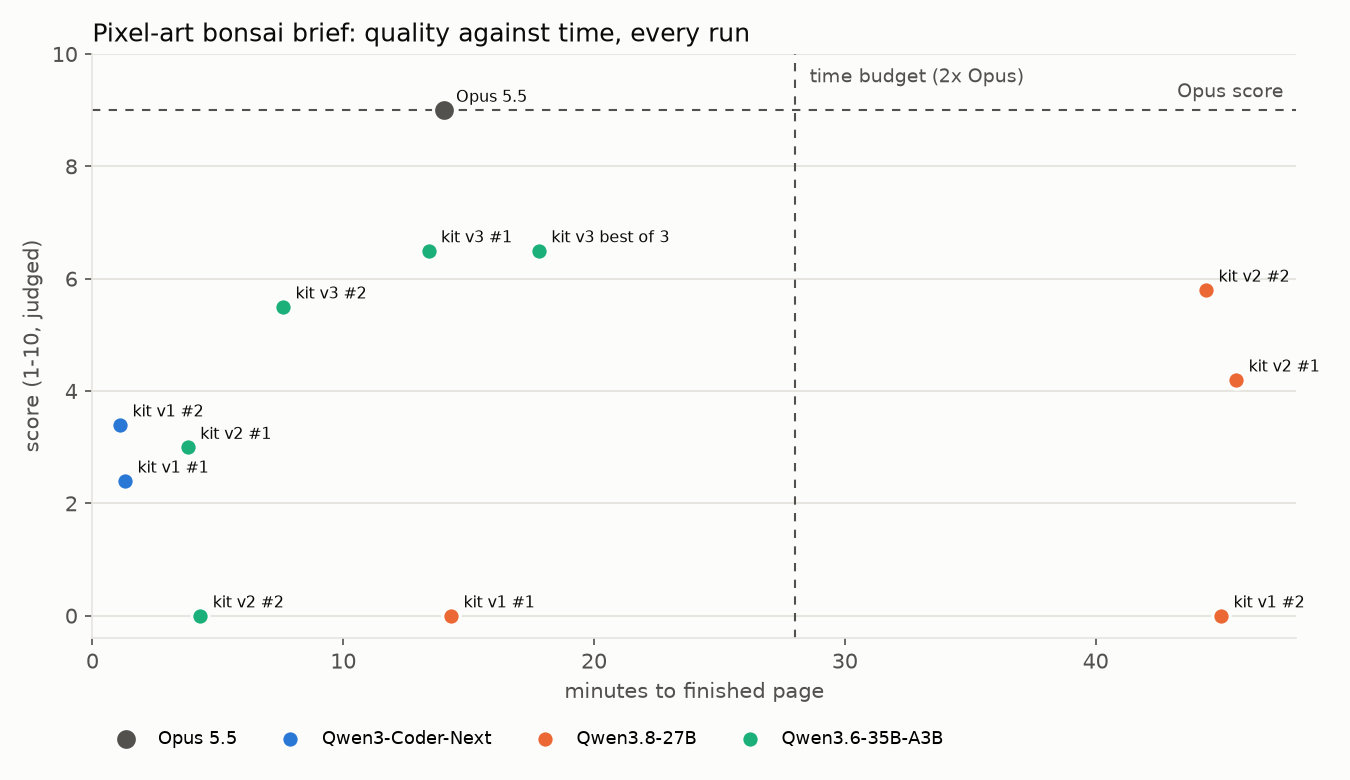
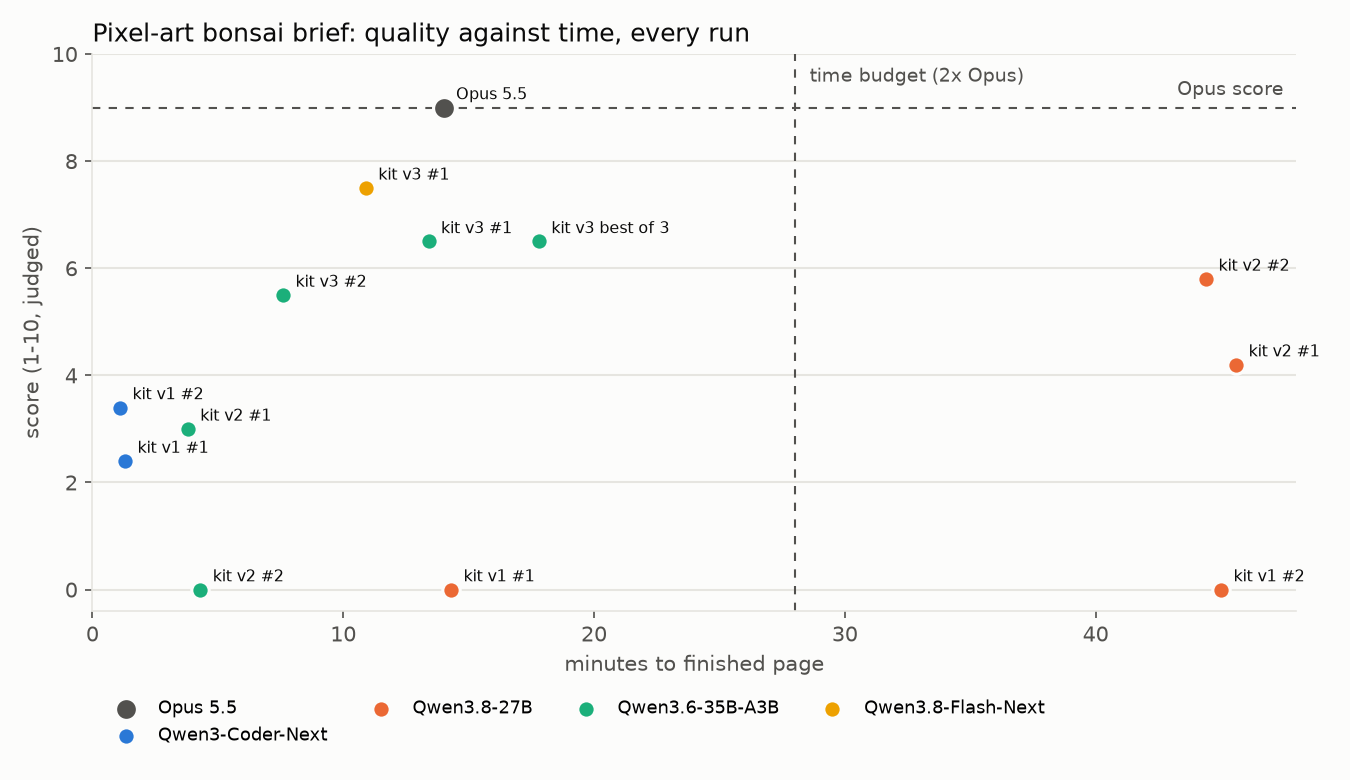
Add the first Qwen3.8-Flash-Next result: bonsai 7.5 in 10.9 min

diff --git a/results/apps/bonsai/qwen3-8-flash-next-kit-v3-1/index.html b/results/apps/bonsai/qwen3-8-flash-next-kit-v3-1/index.html
@@ -1,0 +1,335 @@
+<!doctype html>
+<html lang="en">
+<head>
+<meta charset="utf-8">
+<meta name="viewport" content="width=device-width, initial-scale=1">
+<title>Bonsai in the Wind</title>
+<style>
+  html, body { margin: 0; height: 100%; background: #0d1524; }
+  body { display: flex; align-items: center; justify-content: center; overflow: hidden; }
+  canvas { image-rendering: pixelated; image-rendering: crisp-edges; }
+</style>
+</head>
+<body>
+<canvas id="c"></canvas>
+<script>
+"use strict";
+const W = 160, H = 120, GROUND = 104;
+
+function mulberry32(a){return()=>{a|=0;a=a+0x6D2B79F5|0;let t=Math.imul(a^a>>>15,1|a);t=t+Math.imul(t^t>>>7,61|t)^t;return((t^t>>>14)>>>0)/4294967296}}
+const rand = mulberry32(1337);
+const clamp = v => v < 0 ? 0 : v > 255 ? 255 : Math.round(v);
+function hex2rgb(h){ return [parseInt(h.slice(1,3),16), parseInt(h.slice(3,5),16), parseInt(h.slice(5,7),16)]; }
+function mix(c1, c2, t){ const a = hex2rgb(c1), b = hex2rgb(c2); return `rgb(${clamp(a[0]+(b[0]-a[0])*t)},${clamp(a[1]+(b[1]-a[1])*t)},${clamp(a[2]+(b[2]-a[2])*t)})`; }
+
+const canvas = document.getElementById("c");
+const ctx = canvas.getContext("2d");
+canvas.width = W; canvas.height = H;
+ctx.imageSmoothingEnabled = false;
+
+function fit(){
+  const availW = Math.min(window.innerWidth, 900), availH = Math.min(window.innerHeight, 760);
+  let s = Math.min(availW / W, availH / H);
+  if(s >= 3) s = Math.floor(s);
+  canvas.style.width = (W * s) + "px";
+  canvas.style.height = (H * s) + "px";
+}
+window.addEventListener("resize", fit);
+fit();
+
+const px = (x, y, c) => { ctx.fillStyle = c; ctx.fillRect(Math.round(x), Math.round(y), 1, 1); };
+const fillRow = (x, y, w, h, c) => { ctx.fillStyle = c; ctx.fillRect(Math.round(x), Math.round(y), Math.round(w), Math.round(h)); };
+function disc(cx, cy, r, c){ for(let y=-r;y<=r;y++) for(let x=-r;x<=r;x++) if(x*x+y*y <= r*r+r*0.8) px(cx+x, cy+y, c); }
+function ellipse(cx, cy, rx, ry, c){ for(let y=-ry;y<=ry;y++) for(let x=-rx;x<=rx;x++) if((x*x)/(rx*rx)+(y*y)/(ry*ry) <= 1.0) px(cx+x, cy+y, c); }
+function taper(x0,y0,cx,cy,x1,y1,w0,w1,c){
+  const steps = Math.ceil(Math.hypot(x1-x0, y1-y0)) * 2;
+  for(let i=0;i<=steps;i++){
+    const t=i/steps, u=1-t;
+    const x=u*u*x0+2*u*t*cx+t*t*x1, y=u*u*y0+2*u*t*cy+t*t*y1;
+    disc(x, y, Math.max(0, Math.round((w0+(w1-w0)*t)/2)), c);
+  }
+}
+
+// ---- palettes (dark -> light) ----
+const SKY = ["#1d3050","#2b4a72","#3f6a97","#5f8eb8","#8ab6d6"];
+const CLOUD = ["#b7cfe4","#d8e7f2"];
+const HILL = ["#3d5a74","#4e718c","#6a8fa6"];
+const FOLIAGE = ["#1d3b2a","#2f5d34","#4a8a3c","#78b84a","#b8e070"];
+const LEAF = ["#2f5d34","#4a8a3c","#78b84a","#b8e070"];
+const BARK = ["#2b1a14","#4a2c1f","#6e4430","#9a6646","#c79a6b"];
+const POT = ["#3a1e16","#5c2d20","#8a3a26","#b4532f","#d97e4a"];
+const SOIL = ["#241812","#3a281e"];
+const GND = ["#2c4630","#3b5c3e","#527a4a"];
+const STONE = ["#3d3d52","#5e6178","#8b90a6"];
+const STREAK = "#cfe3f0";
+
+// ---- sky ----
+const skyRow = [];
+for(let y=0;y<GROUND;y++){
+  const t = y/(GROUND-1);
+  skyRow.push(mix(SKY[0], SKY[4], t));
+}
+
+// ---- clouds ----
+const clouds = [];
+for(let i=0;i<5;i++){
+  const puffs = [];
+  const n = 3 + Math.floor(rand()*3);
+  for(let j=0;j<n;j++) puffs.push({dx: j*5 - n*2 + Math.floor(rand()*4), dy: Math.floor(rand()*4)-2, r: 3+Math.floor(rand()*4)});
+  clouds.push({x: rand()*W, y: 8 + rand()*30, sp: 0.7 + rand()*0.9, puffs});
+}
+
+// ---- hills ----
+const farPts = (()=>{const r=mulberry32(7);const p=[];for(let i=0;i<=W/8;i++)p.push(78 - Math.floor(r()*10));return p;})();
+const nearPts = (()=>{const r=mulberry32(21);const p=[];for(let i=0;i<=W/8;i++)p.push(90 - Math.floor(r()*8));return p;})();
+
+// ---- ground ----
+const grass = [];
+{
+  const r = mulberry32(99);
+  for(let i=0;i<260;i++) grass.push({x: Math.floor(r()*W), y: GROUND + Math.floor(r()*(H-GROUND)), c: r()});
+}
+
+// ---- bonsai geometry ----
+const BASE_X = 80, BASE_Y = 96;
+const TRUNK = {x0: BASE_X, y0: BASE_Y, cx: 65, cy: 82, x1: 77, y1: 51};
+
+function bez(t){
+  const u = 1-t;
+  return {x: u*u*TRUNK.x0 + 2*u*t*TRUNK.cx + t*t*TRUNK.x1,
+          y: u*u*TRUNK.y0 + 2*u*t*TRUNK.cy + t*t*TRUNK.y1};
+}
+
+const branches = [
+  {p0: 0.22, cx: 59, cy: 85, x1: 45, y1: 79, w0: 4.5, w1: 2},
+  {p0: 0.50, cx: 88, cy: 73, x1: 99, y1: 70, w0: 4,   w1: 1.5},
+  {p0: 0.72, cx: 63, cy: 62, x1: 54, y1: 58, w0: 3,   w1: 1.2},
+];
+
+const pads = [
+  {x: 43, y: 75, rx: 13, ry: 6,  hFac: 0.35, ph: 0.0},
+  {x: 101, y: 68, rx: 11, ry: 5,  hFac: 0.55, ph: 1.7},
+  {x: 52, y: 55, rx: 9,  ry: 4,  hFac: 0.72, ph: 3.1},
+  {x: 79, y: 44, rx: 15, ry: 6,  hFac: 1.0,  ph: 4.4},
+];
+pads.forEach(p => {
+  const r = mulberry32(Math.round(p.x*131 + p.y*17));
+  p.blobs = [];
+  const n = 7 + Math.floor(r()*4);
+  for(let i=0;i<n;i++){
+    p.blobs.push({
+      dx: Math.round((r()*2-1) * p.rx * 0.8),
+      dy: Math.round((r()*2-1) * p.ry * 0.6) - 1,
+      r: 3 + Math.floor(r()*3)
+    });
+  }
+  p.specks = [];
+  const m = 6 + Math.floor(r()*5);
+  for(let i=0;i<m;i++) p.specks.push({dx: Math.round((r()*2-1)*p.rx*0.9), dy: Math.round((r()*2-1)*p.ry*0.7), c: r()});
+});
+
+// ---- drifting particles ----
+const leaves = [], streaks = [];
+for(let i=0;i<30;i++) leaves.push({
+  x: rand()*W, y: rand()*GROUND, sp: 6 + rand()*16, amp: 3 + rand()*7,
+  ph: rand()*6.28, size: 1 + Math.floor(rand()*2), c: LEAF[Math.floor(rand()*LEAF.length)]
+});
+for(let i=0;i<12;i++) streaks.push({
+  x: rand()*W, y: 12 + rand()*(GROUND-24), sp: 24 + rand()*34,
+  len: 8 + Math.floor(rand()*10), al: 0.22 + rand()*0.14
+});
+
+// ---- drawing ----
+let sway = 0;
+
+function drawSky(){
+  for(let y=0;y<GROUND;y++){ ctx.fillStyle = skyRow[y]; ctx.fillRect(0, y, W, 1); }
+}
+
+function drawClouds(t){
+  for(const c of clouds){
+    let x = (c.x + t*c.sp) % (W+40) - 20;
+    for(const p of c.puffs){
+      ellipse(x+p.dx, c.y+p.dy, p.r+1, Math.max(1, p.r-2), CLOUD[0]);
+      ellipse(x+p.dx, c.y+p.dy-1, p.r-1, Math.max(1, p.r-3), CLOUD[1]);
+    }
+  }
+}
+
+function hillBand(pts, colTop, colFace, base){
+  for(let x=0;x<W;x++){
+    const i = Math.floor(x/8), f = (x%8)/8;
+    const y = Math.round(pts[i]*(1-f) + pts[Math.min(i+1, pts.length-1)]*f);
+    fillRow(x, y, 1, base-y, colFace);
+    px(x, y, colTop);
+  }
+}
+
+function drawHills(){
+  hillBand(farPts, HILL[2], HILL[1], GROUND);
+  hillBand(nearPts, HILL[1], HILL[0], GROUND);
+}
+
+function drawGround(){
+  fillRow(0, GROUND, W, H-GROUND, GND[1]);
+  fillRow(0, GROUND, W, 1, GND[2]);
+  fillRow(0, H-3, W, 3, GND[0]);
+  for(const g of grass) px(g.x, g.y, g.c < 0.5 ? GND[0] : (g.c < 0.85 ? GND[2] : "#6f9657"));
+  disc(24, 110, 3, STONE[1]); disc(24, 109, 2, STONE[2]); px(23, 108, STONE[2]);
+  disc(136, 112, 2, STONE[1]); px(135, 111, STONE[2]);
+  const r = mulberry32(5);
+  for(let i=0;i<40;i++) px(Math.floor(r()*W), GROUND + 1 + Math.floor(r()*(H-GROUND-2)), GND[0]);
+}
+
+function drawPot(){
+  // shallow ceramic body with feet
+  ellipse(BASE_X, BASE_Y+7, 16, 3, POT[2]);
+  fillRow(BASE_X-15, BASE_Y+6, 30, 6, POT[2]);
+  for(let y=BASE_Y+7;y<BASE_Y+12;y++) for(let x=BASE_X+3;x<BASE_X+15;x++)
+    if(!((x+y)&1)) px(x, y, POT[1]);
+  for(let x=BASE_X-15;x<BASE_X-9;x++) px(x, BASE_Y+9, POT[1]);
+  fillRow(BASE_X-15, BASE_Y+11, 30, 1, POT[1]);
+  fillRow(BASE_X-13, BASE_Y+12, 5, 2, POT[1]);
+  px(BASE_X-13, BASE_Y+12, POT[2]);
+  fillRow(BASE_X+8, BASE_Y+12, 5, 2, POT[1]);
+  px(BASE_X+8, BASE_Y+12, POT[2]);
+  // protruding rim
+  fillRow(BASE_X-18, BASE_Y+2, 36, 4, POT[2]);
+  fillRow(BASE_X-18, BASE_Y+2, 36, 1, POT[4]);
+  fillRow(BASE_X-17, BASE_Y+3, 20, 1, POT[3]);
+  fillRow(BASE_X-18, BASE_Y+5, 36, 1, POT[1]);
+  px(BASE_X-18, BASE_Y+2, POT[4]); px(BASE_X+17, BASE_Y+2, POT[4]);
+  // soil
+  ellipse(BASE_X, BASE_Y+2, 15, 2, SOIL[1]);
+  for(let i=0;i<12;i++) px(BASE_X-14+Math.floor(rand()*28), BASE_Y+1+Math.floor(rand()*2), SOIL[0]);
+  const rx = mulberry32(3);
+  for(let i=0;i<16;i++){
+    const x = BASE_X-14 + Math.floor(rx()*28), y = BASE_Y+7 + Math.floor(rx()*5);
+    if(rx() < 0.5) px(x, y, POT[3]);
+  }
+  ellipse(BASE_X, BASE_Y+14, 14, 1, "#1f3325");
+}
+
+function drawTrunk(){
+  const WB = 9, WT = 3;
+  taper(TRUNK.x0, TRUNK.y0, TRUNK.cx, TRUNK.cy, TRUNK.x1, TRUNK.y1, WB, WT, BARK[1]);
+  for(const b of branches){
+    const p = bez(b.p0);
+    taper(p.x, p.y, b.cx, b.cy, b.x1, b.y1, b.w0, b.w1, BARK[1]);
+  }
+  taper(BASE_X-3, BASE_Y+1, BASE_X-8, BASE_Y+3, BASE_X-12, BASE_Y+5, 4, 1, BARK[1]);
+  taper(BASE_X+3, BASE_Y+1, BASE_X+8, BASE_Y+3, BASE_X+12, BASE_Y+5, 4, 1, BARK[1]);
+  taper(BASE_X, BASE_Y-3, BASE_X-5, BASE_Y-1, BASE_X-8, BASE_Y+2, 6, 1, BARK[1]);
+  taper(BASE_X, BASE_Y-3, BASE_X+6, BASE_Y-1, BASE_X+9, BASE_Y+2, 5, 1, BARK[1]);
+
+  // light side (left/top) and dark side (right)
+  const steps = 80;
+  for(let i=0;i<=steps;i++){
+    const t=i/steps, p=bez(t), w=Math.max(0, Math.round((WB+(WT-WB)*t)/2));
+    for(let k=-w;k<=w;k++) px(p.x+k-1, p.y, BARK[2]);
+    for(let k=w-1;k<=w;k++) px(p.x+k, p.y, BARK[0]);
+    px(p.x-w, p.y, BARK[1]);
+    if(i%6===0) px(p.x-Math.round(w*0.5), p.y, BARK[3]);
+    if(i%10===0) px(p.x+1, p.y+1, BARK[0]);
+  }
+  for(const b of branches){
+    const p = bez(b.p0), steps2 = 24;
+    for(let i=0;i<=steps2;i++){
+      const t=i/steps2, u=1-t;
+      const x=u*u*p.x+2*u*t*b.cx+t*t*b.x1, y=u*u*p.y+2*u*t*b.cy+t*t*b.y1;
+      const w=Math.max(0, Math.round((b.w0+(b.w1-b.w0)*t)/2));
+      if(t<0.5) px(x, y-w, BARK[3]);
+      px(x, y+w, BARK[0]);
+    }
+  }
+}
+
+function drawPad(p){
+  const ox = Math.round(Math.sin(sway*1.3 + p.ph) * 2.2 * p.hFac);
+  const oy = Math.round(Math.sin(sway*0.9 + p.ph*1.3) * 0.8 * p.hFac);
+  const cx = p.x + ox, cy = p.y + oy;
+
+  for(const b of p.blobs) disc(cx+b.dx, cy+b.dy, b.r+1, FOLIAGE[0]);
+  for(const b of p.blobs) disc(cx+b.dx-1, cy+b.dy-1, b.r, FOLIAGE[1]);
+  for(const b of p.blobs) disc(cx+b.dx-2, cy+b.dy-2, b.r-1, FOLIAGE[2]);
+  for(const b of p.blobs) disc(cx+b.dx-3, cy+b.dy-3, Math.max(0,b.r-2), FOLIAGE[3]);
+
+  // interior depth: dark speckles clustered in the lower-right body
+  for(const s of p.specks){
+    px(cx+s.dx, cy+s.dy, s.c > 0.6 ? FOLIAGE[3] : FOLIAGE[1]);
+  }
+  const r = mulberry32(Math.round(p.x*71 + p.y*29));
+  for(let i=0;i<10;i++){
+    const dx = Math.round(r()*p.rx*0.9) - 1;
+    const dy = Math.round(r()*p.ry*0.7) + 1;
+    if(r() < 0.7) px(cx+dx, cy+dy, FOLIAGE[0]);
+  }
+  // lit crown rim along the top edge, speckled for a leafy edge
+  for(let x=-p.rx;x<=p.rx;x++){
+    const d = 1 - (x*x)/(p.rx*p.rx);
+    if(d <= 0.25) continue;
+    const yt = cy - Math.round(p.ry*Math.sqrt(d)) - 1;
+    if(r() < 0.55) px(cx+x, yt, x < 0 ? FOLIAGE[4] : FOLIAGE[3]);
+  }
+}
+
+function drawStreaks(){
+  for(const s of streaks){
+    const len = s.len + (sway > 0 ? Math.round(sway*3) : 0);
+    ctx.globalAlpha = Math.min(0.6, s.al + Math.max(0, sway)*0.12);
+    fillRow(s.x, s.y, len, 1, "#cfe3f0");
+    fillRow(s.x, s.y+1, Math.max(2, Math.round(len*0.5)), 1, "#9cbdd6");
+    if(len > 8) fillRow(s.x+2, s.y-1, Math.round(len*0.6), 1, "#eaf4fb");
+    ctx.globalAlpha = 1;
+  }
+}
+
+function drawLeaves(t){
+  for(const l of leaves){
+    const x = Math.round(l.x), y = Math.round(l.y + Math.sin(t*3 + l.ph) * l.amp);
+    const wob = Math.round(Math.sin(t*6 + l.ph)*1.5);
+    px(x, y, l.c);
+    if(l.size > 1) px(x+1, y+wob>0?y:y-1, mix(l.c, "#ffffff", 0.25));
+    if(l.size > 1) px(x-1, y+1, mix(l.c, "#000000", 0.25));
+  }
+}
+
+function update(dt, t){
+  const gust = 0.55 + 0.45*Math.sin(t*0.35) * Math.sin(t*0.13 + 2);
+  sway = Math.sin(t*1.1) + gust*0.6*Math.sin(t*2.3);
+  const wind = 12 + 10*gust;
+  for(const l of leaves){
+    l.x += (l.sp + wind) * dt;
+    if(l.x > W + 2){ l.x = -2 - rand()*6; l.y = rand()*GROUND; l.sp = 6 + rand()*16; }
+  }
+  for(const s of streaks){
+    s.x += (s.sp + wind*1.6) * dt;
+    if(s.x > W + 12){ s.x = -s.len - 4 - rand()*10; s.y = 12 + rand()*(GROUND-24); }
+  }
+}
+
+const reduce = window.matchMedia && window.matchMedia("(prefers-reduced-motion: reduce)").matches;
+
+let last = performance.now();
+function frame(now){
+  const dt = reduce ? 0 : Math.min(0.05, (now - last) / 1000);
+  last = now;
+  const t = now / 1000;
+  update(dt, t);
+
+  drawSky();
+  drawClouds(t);
+  drawHills();
+  drawGround();
+  drawPot();
+  drawTrunk();
+  for(const p of pads) drawPad(p);
+  drawStreaks();
+  drawLeaves(t);
+
+  requestAnimationFrame(frame);
+}
+requestAnimationFrame(frame);
+</script>
+</body>
+</html>

diff --git a/README.md b/README.md
@@ -3,10 +3,11 @@
 Can a local model on one NVIDIA DGX Spark, wrapped in the right agent harness, build front-end work
 at the quality of Claude Opus 5.5, in at most twice Opus's time?
 
-**Not yet, but the gap is narrowing.** The best local setup so far, Qwen3.6-35B-A3B (NVFP4, 134.8
-tok/s, vision-capable) inside OpenCode with a harness-driven look-and-fix loop, finishes every brief
-inside the time budget and scores 6.5 to 7.5 against Opus's 9.0 to 9.5. Qwen3.8-Flash-Next, the
-strongest model that fits on one Spark, is being added (see [Status](#status)).
+**Not yet, but the gap is narrowing.** With a harness-driven look-and-fix loop in OpenCode, local
+models now finish every brief inside the time budget. Qwen3.6-35B-A3B (134.8 tok/s) scores 6.5 to 7.5
+against Opus's 9.0 to 9.5; the first Qwen3.8-Flash-Next result (the strongest model that fits on one
+Spark) reaches 7.5 on the bonsai brief in 10.9 minutes. Its other runs are in progress (see
+[Status](#status)).
 
 ![Bonsai brief: quality against time](results/charts/bonsai_quality_vs_time.png)
 
@@ -16,7 +17,7 @@ strongest model that fits on one Spark, is being added (see [Status](#status)).
 
 | Brief | Opus 5.5 (reference) | Best local run | Gap |
 |---|---|---|---|
-| Pixel-art bonsai with wind | 9.0 in 14 min | 6.5 in 13.4 min (Qwen3.6-35B-A3B + kit v3) | -2.5 |
+| Pixel-art bonsai with wind | 9.0 in 14 min | 7.5 in 10.9 min (Qwen3.8-Flash-Next + kit v3) | -1.5 |
 | Pixel-art lighthouse at night (held out) | 9.0 in 24.5 min | 7.0 in 18.7 min (Qwen3.6-35B-A3B + kit v3) | -2.0 |
 | Personal finance dashboard (held out) | 9.5 in 11.6 min | 7.5 in 17.9 min (Qwen3.6-35B-A3B + kit v3) | -2.0 |
 
@@ -131,7 +132,7 @@ Small samples (2 to 3 runs per cell); treat differences under about one point as
 ## Status
 
 - Done: Qwen3-Coder-Next, Qwen3.8-27B, Qwen3.6-35B-A3B on all briefs and harness versions above.
-- In progress: Qwen3.8-Flash-Next through the same supervised briefs.
+- Qwen3.8-Flash-Next: bonsai done (7.5 in 10.9 min); lighthouse, a second bonsai attempt and the dashboard in progress.
 - This repository is updated as runs finish.
 
 ## Reproduce
